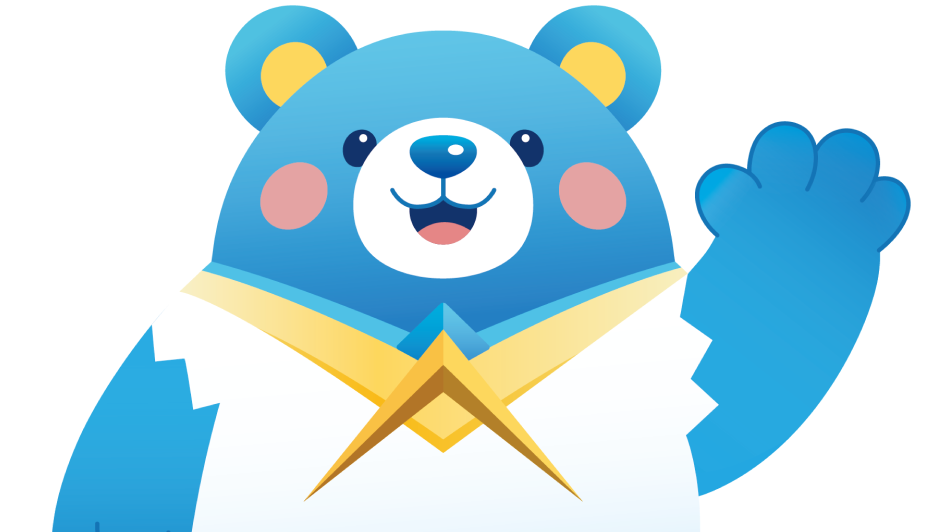
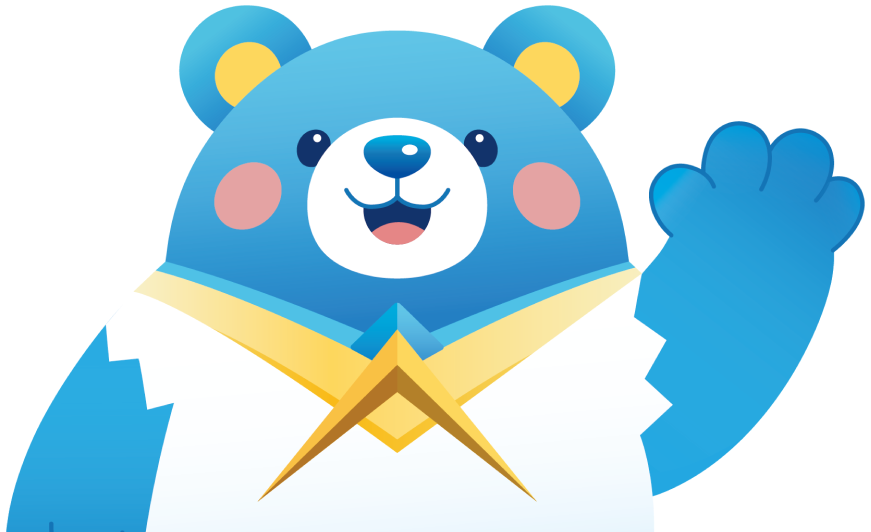
Our Product: crop transparent padding from card illustrations
The source PNGs had large baked-in transparent margins (e.g. vehicle
loan's real artwork was only ~938x838 inside a 1024x1536 canvas).
object-fit:contain was scaling that empty space along with the
artwork, so growing the img box to 237x242/211x215 didn't make the
visible picture any bigger. Cropped each asset to its actual content
bounds (plus a small margin) so the illustrations now fill the cards
as intended, and updated the width/height attributes to match.

diff --git a/src/partials/en/products.php b/src/partials/en/products.php
@@ -7,19 +7,19 @@
 
 		<div class="amfc-en-products__grid">
 			<div class="amfc-en-product-card">
-				<img class="amfc-en-product-card__img--large" src="<?= e(asset('images/en/product-vehicle-loan.png')) ?>" alt="Vehicle loan illustration" width="1024" height="1536" />
+				<img class="amfc-en-product-card__img--large" src="<?= e(asset('images/en/product-vehicle-loan.png')) ?>" alt="Vehicle loan illustration" width="950" height="850" />
 				<p class="amfc-en-product-card__label">Vehicle Loan</p>
 			</div>
 			<div class="amfc-en-product-card">
-				<img class="amfc-en-product-card__img--large" src="<?= e(asset('images/en/product-personal-loan.png')) ?>" alt="Personal loan illustration" width="1024" height="1536" />
+				<img class="amfc-en-product-card__img--large" src="<?= e(asset('images/en/product-personal-loan.png')) ?>" alt="Personal loan illustration" width="1024" height="1475" />
 				<p class="amfc-en-product-card__label">Personal Loan</p>
 			</div>
 			<div class="amfc-en-product-card">
-				<img class="amfc-en-product-card__img--small" src="<?= e(asset('images/en/product-buddyloan.png')) ?>" alt="BuddyLoan illustration" width="930" height="532" />
+				<img class="amfc-en-product-card__img--small" src="<?= e(asset('images/en/product-buddyloan.png')) ?>" alt="BuddyLoan illustration" width="871" height="532" />
 				<p class="amfc-en-product-card__label">BuddyLoan</p>
 			</div>
 			<div class="amfc-en-product-card">
-				<img class="amfc-en-product-card__img--large" src="<?= e(asset('images/en/product-corporate-bond.png')) ?>" alt="Corporate bond illustration" width="1024" height="1536" />
+				<img class="amfc-en-product-card__img--large" src="<?= e(asset('images/en/product-corporate-bond.png')) ?>" alt="Corporate bond illustration" width="986" height="1337" />
 				<p class="amfc-en-product-card__label">Corporate Bond</p>
 			</div>
 		</div>
